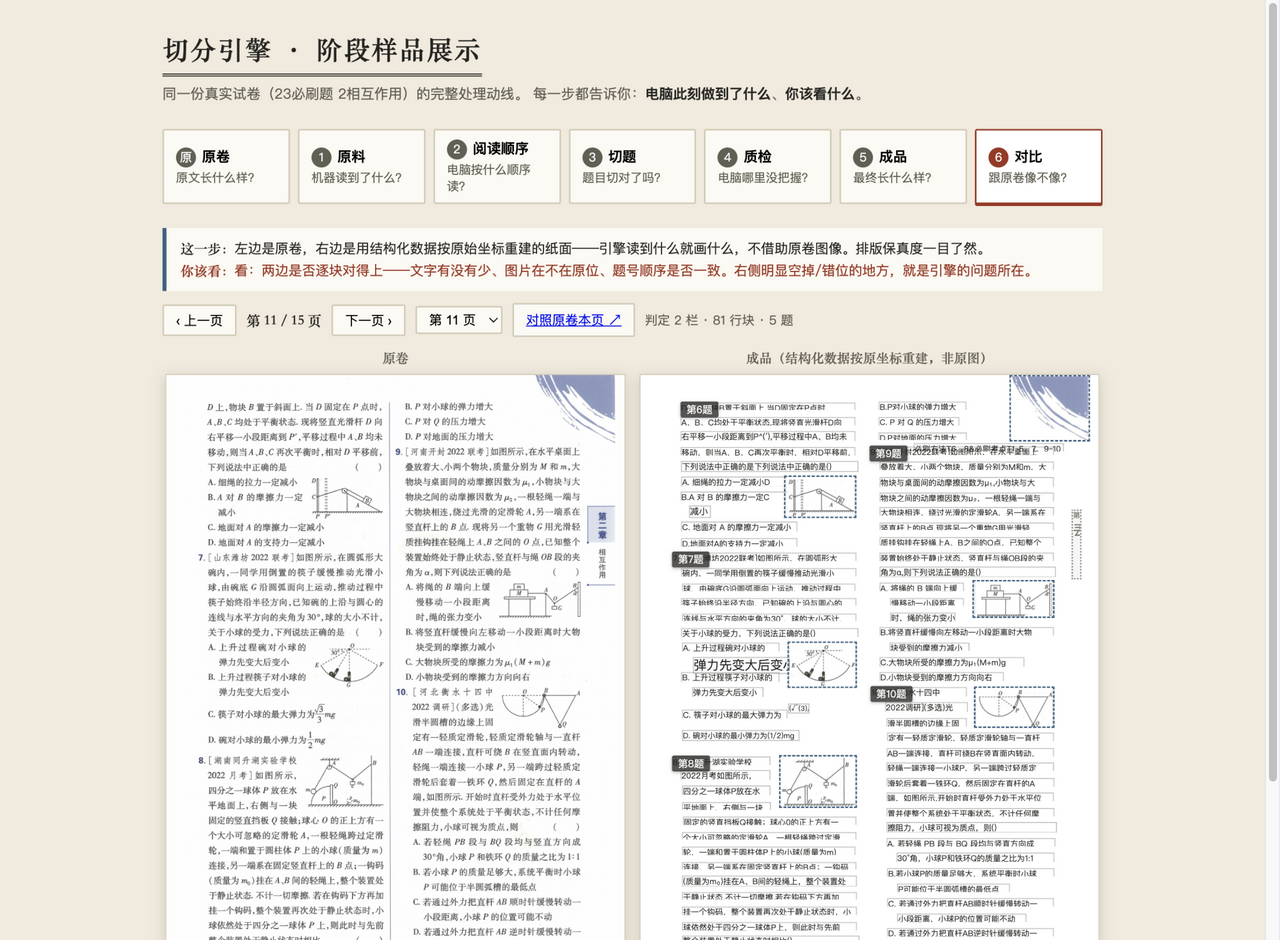
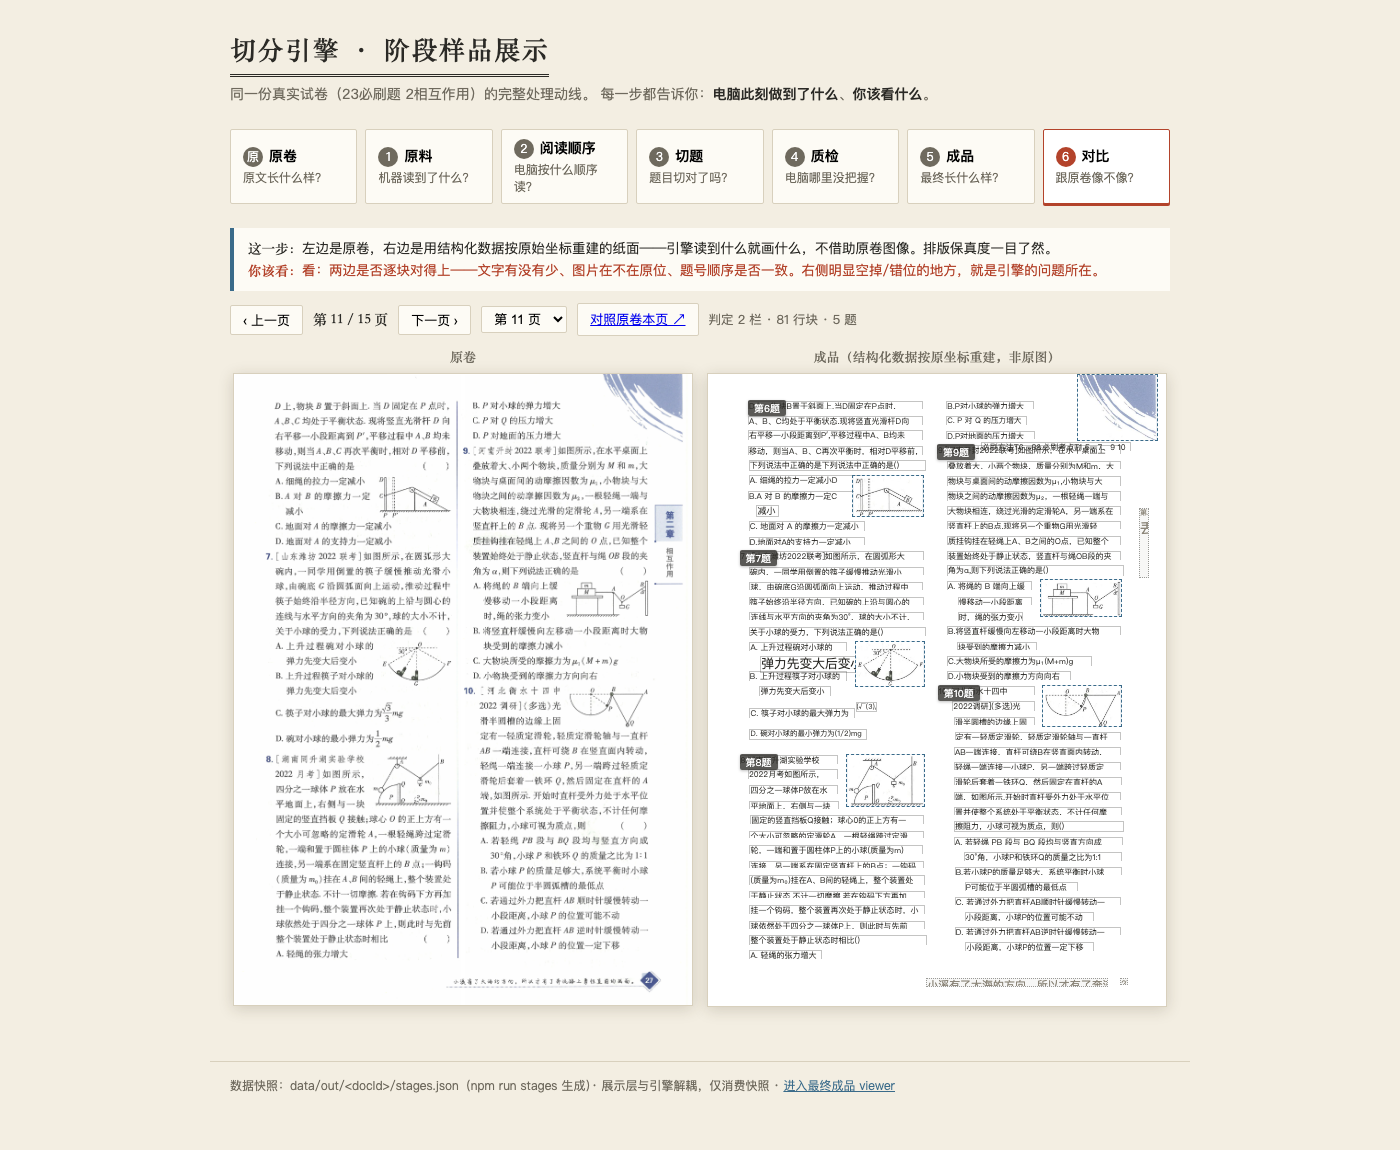
feat: 渲染审计升级——语义级判据 + 上标噪声/选项粘连修复
用户对比模式截图报出：选项粘连 A.0.20B.0.30、公式 A.Fsin^(:)θ。
全量审计定位为五类缺陷（远超用户报出的两个），根因是渲染验收判据
停留在「语法零残留」，漏掉「语法干净但语义错误」这一整类。

- 新增 scripts/audit-render.mjs 并接入 npm run check：输出端可疑模式
  （^(标点)/残留 \ 与 {}/行尾裸上下标）+ 输入端命令覆盖率 + 选项粘连
- latex-display.js：上标语义化（符号直出/纯标点判 OCR 噪声丢弃）、
  命令表补全（varepsilon/varrho/var*/vdots/colon/oplus 等）、
  最长已知前缀回退（修 \thetaB 吞掉真实字符）、未知命令不裸奔、
  裸公式判据放宽（无 $ 的 F_{1}=F_{2} 也渲染）、选项粘连分隔、~ 还原空格
- stages 支持 ?stage=N&page=M 直达（便于分享与免交互截图审计）
- 测试 77 → 86（新增 9 例真实案例）；渲染审计 8 项全归零
- 15 页对比截图重拍复核；DECISIONS §17 + stages-review 六轮

diff --git a/stages/latex-display.js b/stages/latex-display.js
@@ -18,7 +18,11 @@ const GREEK = {
   nu: "ν", xi: "ξ", pi: "π", Pi: "Π", rho: "ρ", sigma: "σ",
   Sigma: "Σ", tau: "τ", phi: "φ", Phi: "Φ", varphi: "φ",
   chi: "χ", psi: "ψ", omega: "ω", Omega: "Ω",
-  Gamma: "Γ", vartheta: "ϑ",
+  Gamma: "Γ", vartheta: "ϑ", varepsilon: "ε", varsigma: "ς", varkappa: "ϰ", varrho: "ϱ",
+  Xi: "Ξ", Upsilon: "Υ",
+  varGamma: "Γ", varDelta: "Δ", varTheta: "Θ", varLambda: "Λ",
+  varXi: "Ξ", varPi: "Π", varSigma: "Σ", varUpsilon: "Υ",
+  varPhi: "Φ", varPsi: "Ψ", varOmega: "Ω",
 };
 
 const SYMBOL = {
@@ -28,14 +32,45 @@ const SYMBOL = {
   to: "→", rightarrow: "→", leftarrow: "←", Rightarrow: "⇒",
   infty: "∞", prime: "′", degree: "°", angle: "∠",
   perp: "⊥", parallel: "∥", setminus: "∖", ldots: "…", dots: "…",
+  vdots: "⋮", ddots: "⋱", cdots: "⋯", colon: ":", therefore: "∴", because: "∵",
+  partial: "∂", nabla: "∇", sum: "∑", prod: "∏", int: "∫",
+  cup: "∪", cap: "∩", subset: "⊂", in: "∈", notin: "∉",
+  ast: "∗", star: "⋆", bullet: "•", longrightarrow: "⟶", ll: "≪", gg: "≫",
+  oplus: "⊕", ominus: "⊖", otimes: "⊗",
   sin: "sin", cos: "cos", tan: "tan", cot: "cot", log: "log", ln: "ln",
-  max: "max", min: "min", circ: "°",
+  max: "max", min: "min", circ: "°", square: "□", triangle: "△",
 };
 
 /** 命令后紧跟的花括号参数按内容展开、本身不显示（字体包装/上划线等） */
 const UNWRAP = new Set([
   "mathrm", "boldsymbol", "mathbf", "text", "it", "mathit", "mathcal",
-  "overline", "bar", "underline", "vec", "hat", "widetilde",
+  "overline", "bar", "underline", "vec", "hat", "widetilde", "widehat",
+  "overrightarrow", "overleftarrow", "operatorname", "textrm", "textbf",
+  "textit", "mathsf", "texttt", "mbox", "textnormal",
+]);
+
+/** 无参数、直接丢弃的命令（纯排版指令，非内容） */
+const DROP_CMD = new Set([
+  "displaystyle", "textstyle", "scriptstyle", "limits", "nolimits",
+  "quad", "qquad", "thinspace", "enspace", "mathstrut", "strut",
+  "left", "right", "big", "Big", "bigg", "Bigg",
+]);
+
+/** 参数非内容、需连参数一并丢弃的命令（否则 "red" 之类会裸奔） */
+const DROP_WITH_ARG = new Set([
+  "color", "textcolor", "hspace", "vspace", "kern", "mkern", "label", "tag",
+  "phantom", "hphantom", "vphantom",
+]);
+
+/**
+ * 渲染器已知命令集。两个用途：
+ * ① parseCommand 用它做「最长已知前缀」回退（MinerU 常把 "\theta B" 写成 "\thetaB"）；
+ * ② 导出给 scripts/audit-render.mjs 做输入端覆盖率检测——输出端查不到未知命令，
+ *    因为它们已被丢弃、不留痕迹，所以必须在输入端查。
+ */
+export const KNOWN_COMMANDS = new Set([
+  ...Object.keys(GREEK), ...Object.keys(SYMBOL), ...UNWRAP, ...DROP_CMD, ...DROP_WITH_ARG,
+  "frac", "dfrac", "tfrac", "sqrt",
 ]);
 
 const SUP = {
@@ -104,7 +139,19 @@ function parseCommand(s, i) {
     if (i < s.length && /[,;:!]/.test(s[i])) return { raw: s.slice(start, i + 1), end: i + 1, name: s[i] };
     return { raw: s[start] ?? "\\", end: start + 1, name: "" };
   }
-  return { raw: s.slice(start, i), end: i, name: s.slice(start + 1, i) };
+  const full = s.slice(start + 1, i);
+  if (KNOWN_COMMANDS.has(full)) return { raw: s.slice(start, i), end: i, name: full };
+  // MinerU 常把 "\theta B" 写成 "\thetaB"（无空格）。若贪婪读到的名字未知，
+  // 回退到「最长已知前缀」，余下字母留给正文——否则 "\thetaB" 会被整体当未知命令丢弃，
+  // 连真实存在的字符 "B"（选项标记）也一起消失。
+  for (let k = full.length - 1; k >= 1; k--) {
+    const cand = full.slice(0, k);
+    if (KNOWN_COMMANDS.has(cand)) {
+      const end = start + 1 + k;
+      return { raw: s.slice(start, end), end, name: cand };
+    }
+  }
+  return { raw: s.slice(start, i), end: i, name: full };
 }
 
 /**
@@ -152,9 +199,15 @@ function desugar(s) {
       }
       if (GREEK[name]) { out += GREEK[name]; i = cmd.end; continue; }
       if (SYMBOL[name]) { out += SYMBOL[name]; i = cmd.end; continue; }
-      if (name === "left" || name === "right") { i = cmd.end; continue; }
-      if (name === "circ") { out += "°"; i = cmd.end; continue; }
-      out += name; // 未知命令 → 裸名字（\sin 已在 SYMBOL，此处兜底）
+      if (DROP_CMD.has(name)) { i = cmd.end; continue; }
+      if (DROP_WITH_ARG.has(name)) {
+        let end = skipSpaces(s, cmd.end);
+        if (s[end] === "{") { const g = parseGroup(s, end); if (g) end = g.end; }
+        i = end;
+        continue;
+      }
+      // 未知命令：丢弃命令名本身，保留其参数内容——宁可少显示一处排版命令，
+      // 也绝不让 "\varepsilon" 这类命令名裸奔给用户看（旧实现的兜底就是裸名字）。
       i = cmd.end;
       continue;
     }
@@ -166,6 +219,11 @@ function desugar(s) {
         const table = ch === "^" ? SUP : SUB;
         if (allMapped(inner, table)) {
           out += mapAll(inner, table);
+        } else if (inner.length > 0 && inner.length <= 2 && !/[A-Za-z0-9]/.test(inner)) {
+          // 符号型上/下标：数学合法符号（′ ∘ ∗）直出；纯标点（: . , ; ( )）是上游 OCR
+          // 噪声——如 F\sin\theta 被 MinerU 误读成 F \mathrm{s i n} ^ { \mathrm{:} } \theta
+          // （原卷无上标），故丢弃而非渲染成 ^(:)
+          out += inner.replace(/[:.,;()\[\]{}'"]/g, "");
         } else if (ch === "^") {
           out += `^(${inner})`;
         } else {
@@ -185,18 +243,42 @@ function desugar(s) {
   return out;
 }
 
-/** 无 $ 定界但明显是公式（含 LaTeX 命令）的整块文本——如 MinerU 的裸 interline 公式块 */
-const LOOKS_LATEX = /\\(?:frac|sqrt|theta|mu|Delta|left|right|mathrm|boldsymbol|overline|setminus|vartheta|cdot|times|circ|alpha|beta|gamma|sin|cos|tan)\b/;
+/**
+ * 无 $ 定界但明显是公式的整块文本——如 MinerU 的裸 interline 公式块。
+ * 判据要宽：含任意 \命令，或「字母数字 + 上下标」（F _ { 1 }、x^2、m_a）。
+ * 旧判据是枚举命令名的窄表，导致含 \angle/\prime/\colon 或无命令的 F_{1}
+ * 这类文本原样输出、LaTeX 源码漏给用户（阶段 1 raw 层曾命中 12+ 处）。
+ */
+const LOOKS_LATEX = /\\[A-Za-z]+|[A-Za-z0-9]\s*[_^]/;
+
+/**
+ * 选项标记分隔：MinerU 丢失列间距后选项粘连成 "A.0.20B.0.30C.0.35D.0.45"。
+ * 仅当同一文本出现 ≥2 个选项标记时才在每个标记前补空格——单个 "A." 多为正文引用，
+ * 不动它，降低误伤。
+ */
+export function separateOptionMarks(text) {
+  const marks = text.match(/[A-D][.．]/g);
+  if (!marks || marks.length < 2) return text;
+  return text.replace(/([^\s])(?=[A-D][.．])/g, "$1 ");
+}
+
+/** 收尾统一整理：选项分隔 + LaTeX 不换行空格 "~" 还原为普通空格（10~kg → 10 kg）。
+ * 必须放在公式内空白折叠之后，否则 "~" 会被折叠掉导致数值与单位粘连。 */
+function finalize(text) {
+  return separateOptionMarks(text).replace(/~/g, " ");
+}
 
 /**
  * 展示用美化：$...$ 段内按 LaTeX 子集渲染并折叠空白（LaTeX 内空格无语义）；
- * 段外文本原样保留；无 $ 但含 LaTeX 命令的整块（裸公式块）也按公式渲染；
- * 不成对的 $ 视为噪声字符直接去掉（避免源码漏出）。
+ * 段外文本原样保留；无 $ 但含 LaTeX 的整块（裸公式块）也按公式渲染；
+ * 不成对的 $ 视为噪声字符直接去掉（避免源码漏出）；
+ * 末了统一做选项标记分隔（粘连可读性）。
  */
 export function prettifyLatex(text) {
   if (!text) return text;
   if (!text.includes("$")) {
-    return LOOKS_LATEX.test(text) ? desugar(text).replace(/\s+/g, "") : text;
+    const shown = LOOKS_LATEX.test(text) ? desugar(text).replace(/\s+/g, "") : text;
+    return finalize(shown);
   }
   let out = "";
   let i = 0;
@@ -213,5 +295,5 @@ export function prettifyLatex(text) {
     }
     i = j;
   }
-  return out;
+  return finalize(out);
 }

diff --git a/stages/stages.js b/stages/stages.js
@@ -111,6 +111,11 @@ async function load() {
     history.replaceState(null, "", url);
   }
   $("doc-name").textContent = state.effectiveDoc;
+  // 直达阶段/页码：?stage=6&page=1（便于分享链接，也供截图审计免交互取图）
+  const wantStage = Number(params.get("stage"));
+  const wantPage = Number(params.get("page"));
+  if (Number.isInteger(wantStage) && wantStage >= 0 && wantStage < STAGES.length) state.stage = wantStage;
+  if (Number.isInteger(wantPage) && wantPage >= 0 && wantPage < state.data.pages.length) state.page = wantPage;
   $("link-viewer").href = `/viewer/?doc=${enc(state.effectiveDoc)}`;
   buildStepper();
   buildPager();

diff --git a/stages/latex-display.d.ts b/stages/latex-display.d.ts
@@ -3,3 +3,5 @@
  * 实现见同目录 latex-display.js；红线：本目录不 import 引擎代码。
  */
 export function prettifyLatex(text: string): string;
+export function separateOptionMarks(text: string): string;
+export const KNOWN_COMMANDS: Set<string>;

diff --git a/docs/design/stages-review.md b/docs/design/stages-review.md
@@ -131,6 +131,54 @@
    `patterns.ts` 新增 `isPageFurniture` + rule-engine 页顶带跳过。
    另：粘连拆分边界移除右括号——公式 "(F+G)/2" 的 "G)" 是括号配对不是选项标记。
 
+## 六轮（用户截图反馈驱动的渲染审计升级，2026-10-08）
+
+用户指出：① 对比模式选项粘连（`A.0.20B.0.30`，AB 靠太近）；② 第 4 页第 1 题公式 A 选项异常
+（`A.Fsin^(:)θ`）；③ 「还有很多」，此前「截图自反馈」的迭代方式没迭代好。
+
+**诊断（全量数据定位，非人眼翻页）**：
+
+| 用户看到 | 数据来源 | 根因 |
+|---------|---------|------|
+| `A.0.20B.0.30` | `blocks[69]` ← `raw[21]` `A.0.20B.0.30C.0.35D.0.45` | **MinerU 丢列间距**（数据层本就无空格），展示层忠实显示 |
+| `A.Fsin^(:)θ` | `blocks[10]` ← `raw[5]` `F \mathrm { s i n } ^ { \mathrm { : } } \theta` | **MinerU OCR 把 Fsinθ 误读**：`\sin`→`\mathrm{s i n}`，且凭空多出上标冒号 |
+
+**方法论升级（回应用户「迭代没迭代好」）**：此前验收判据是「语法零残留」（输出无 `\` / `{}`），
+但 `\varepsilon` 会被渲染成裸名字 "varepsilon"、`^{:}` 会被渲染成 "(:)" —— **语法干净、语义是错的**，
+判据漏掉了整整一类缺陷，所以「全量清点 0 残留」之后用户仍一眼看到问题。
+新增 `scripts/audit-render.mjs` 把判据升到**语义级**并接入 `npm run check`：
+
+- 输出端：`^(标点)` / `_(标点)`、残留 `\` 与 `{}`、行尾裸上下标；
+- 输入端：**未覆盖的 LaTeX 命令**（输出端查不到——未知命令已被丢弃、不留痕迹，只能在输入端查）；
+- 选项粘连。
+
+**首轮审计暴露的真实缺陷（五类，远超用户报出的两个）**：
+
+1. 上标噪声 `^(:)`（9 处）；
+2. 上标撇号 `^(′)` 应直出 `′`（如 `F₁′>F₁`）；
+3. **`\thetaB` 被整体当未知命令丢弃 → 选项标记 B 消失**（内容丢失）；
+4. 命令表缺映射：`\varepsilon`→"varepsilon"、`\vdots`→"vdots"，以及 `\varrho` / `\oplus` / `\varGamma`；
+5. **裸公式判据太窄**：不含 `$` 但含 LaTeX 的文本（`F _ { 1 } = F _ { 2 }`）原样输出 → 阶段 1 源码残留 12+ 处。
+
+**修复（`stages/latex-display.js`）**：
+
+| 项 | 实现 |
+|----|------|
+| 上标语义化 | 内容为数学符号（′ ∘ ∗）直出；为纯标点（: . , ;）判 OCR 噪声丢弃；表达式才保留 `^()` |
+| 命令表补全 | `varepsilon`/`varrho`/`varsigma`/`varkappa` 与大写 `var*` 变体、`vdots`/`ddots`/`cdots`/`colon`/`therefore`/`partial`/`nabla`/`sum`/`int`/`oplus` 等 |
+| 最长已知前缀回退 | `\thetaB` 按 `\theta` + `B` 处理，杜绝「未知命令丢弃」把真实字符一起吞掉 |
+| 未知命令不裸奔 | 丢弃命令名、保留参数内容；`\color{red}` 这类连参数一并丢弃 |
+| 裸公式判据放宽 | 由枚举命令名的窄表 → 含任意 `\命令`，或「字母数字 + 上下标」 |
+| 选项粘连分隔 | 同一文本出现 ≥2 个选项标记时补空格（单个标记多为正文引用，不动它） |
+| `~` 还原空格 | LaTeX 不换行空格 → 普通空格（`10~kg` → `10 kg`） |
+
+**验收**：`npm run check` = typecheck + **86/86 测试**（新增 9 例，用例全部取自真实样张）
++ **渲染审计 8 项全归零**。15 页对比截图重拍（`pages/compare-p0..14.png`）：
+第 4 页右侧显示 `A.Fsinθ B. Fsin θcos θ`、第 2 页显示 `A.0.20 B.0.30 / C.0.35 D.0.45`，与预期一致。
+
+**配套**：stages 前端新增 `?stage=N&page=M` URL 参数（直达阶段/页码），
+既便于分享「对比模式」链接，也让截图审计免交互取图。
+
 ## 自反馈环发现项（原卷 ↔ 阶段输出对照）
 
 | # | 发现 | 证据 | 处置 |
